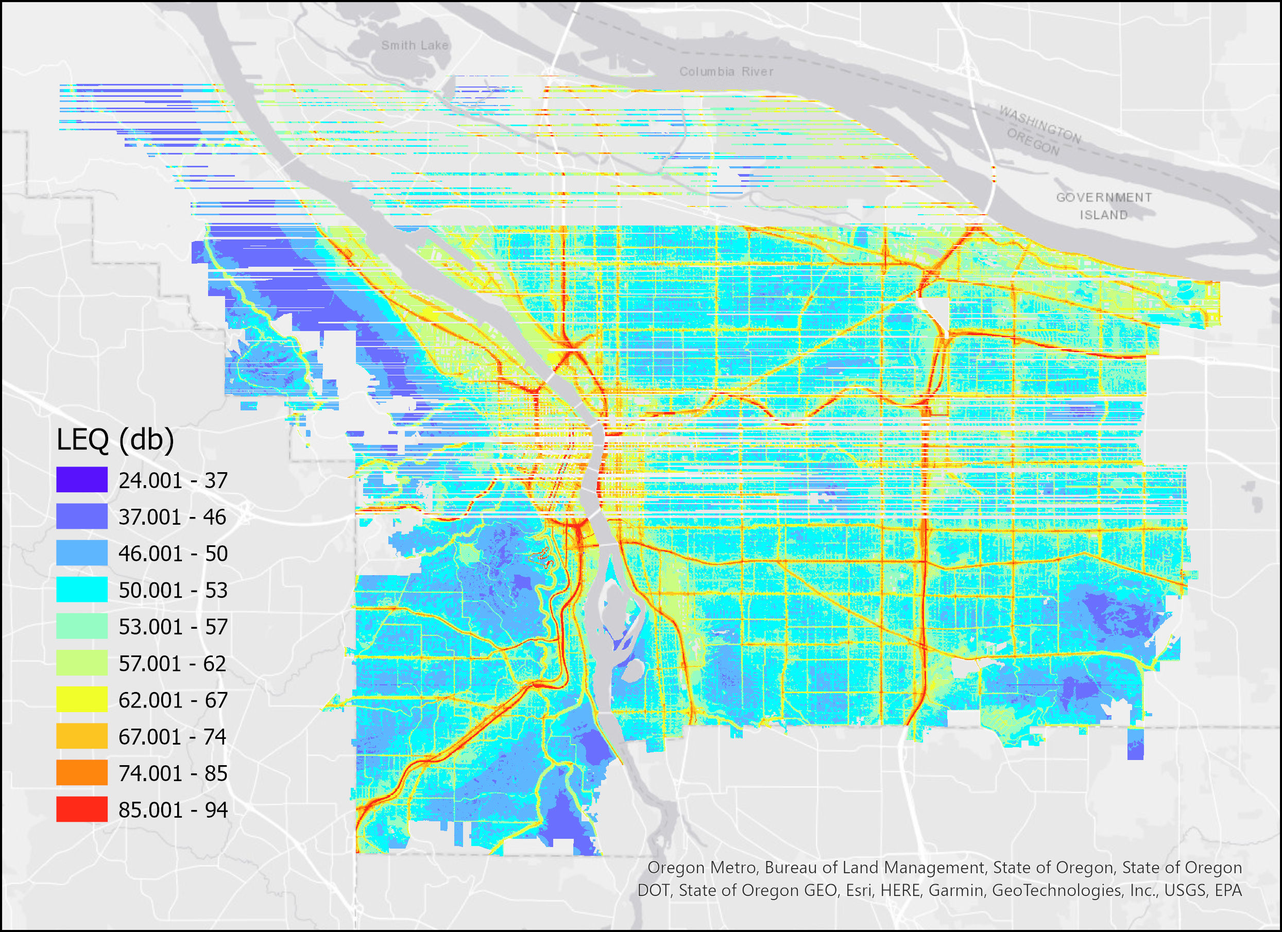
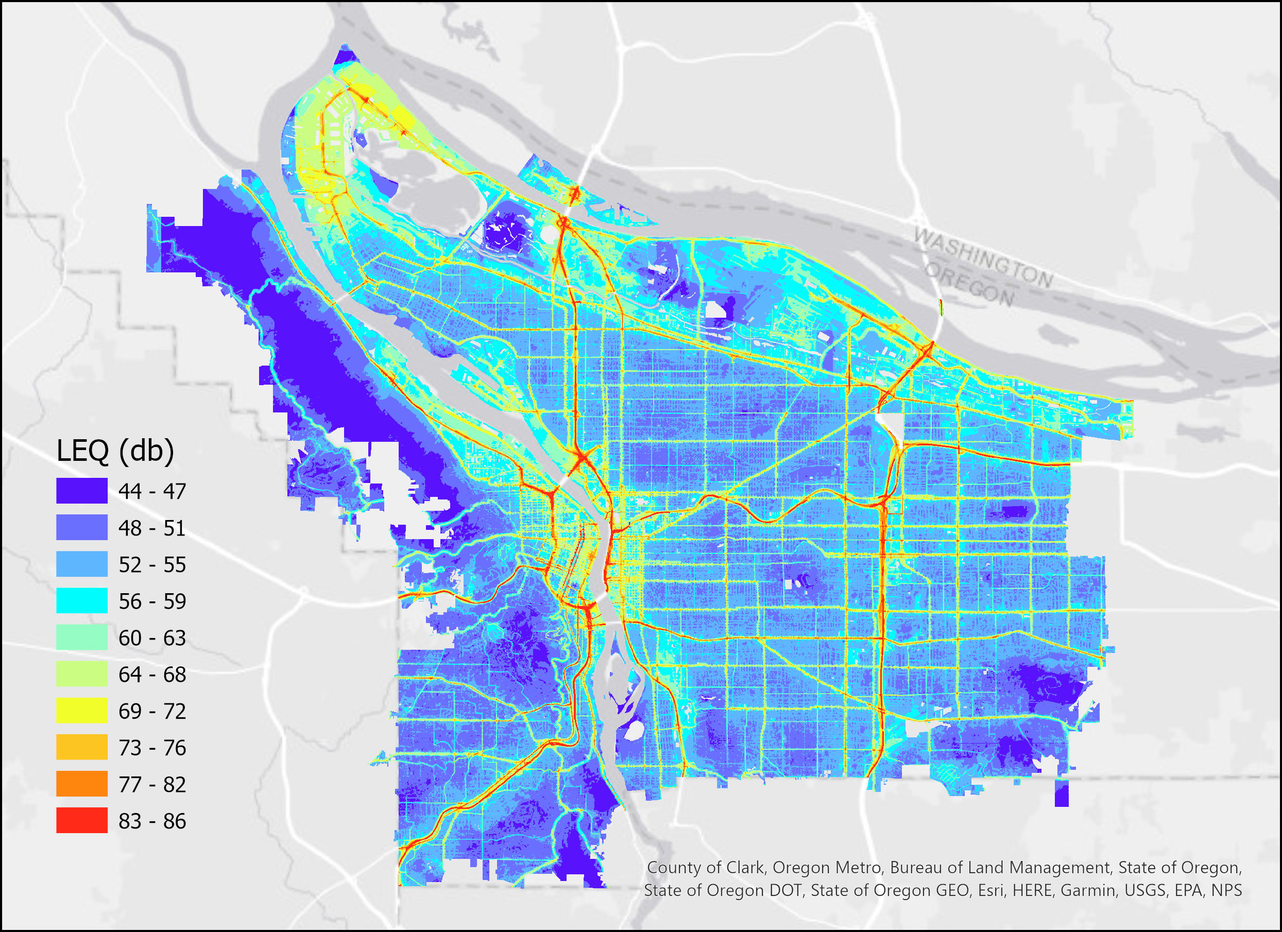
updated clamp

diff --git a/CreateRasterSurface/createRasters.py b/CreateRasterSurface/createRasters.py
@@ -105,8 +105,8 @@ def makeRaster(inShapefile,valueField,outputRaster):
                  rasterFilepath)
     
     # clamp maximum values t
-    output = arcpy.sa.Con(output > 94, 94,output)
-
+    output = arcpy.sa.Con(output > 86, 86,output)
+    output = arcpy.sa.Con(output < 44, 44,output)
     for x in range(3):
         output = arcpy.sa.Con(arcpy.sa.IsNull(output), 
                  arcpy.sa.FocalStatistics(output,arcpy.sa.NbrRectangle(2,2, "CELL"),"MEAN"),

diff --git a/PredictLEQAndDNL/predictGridPointsLEQ.py b/PredictLEQAndDNL/predictGridPointsLEQ.py
@@ -145,8 +145,12 @@ if __name__ == '__main__':
 
     # for each grid point batch, predict LEQ.
     dfArr = []
+    index =0 
     for fileSig in sigsToProcess:
+        if(index%500==0):
+            print("completed predictions for %i gridPoints" %(index*1000))
         dfArr.append(processFileSig(fileSig))
+        index+=1
 
     # combine batches and save to disk
     df = ps.concat(dfArr)
